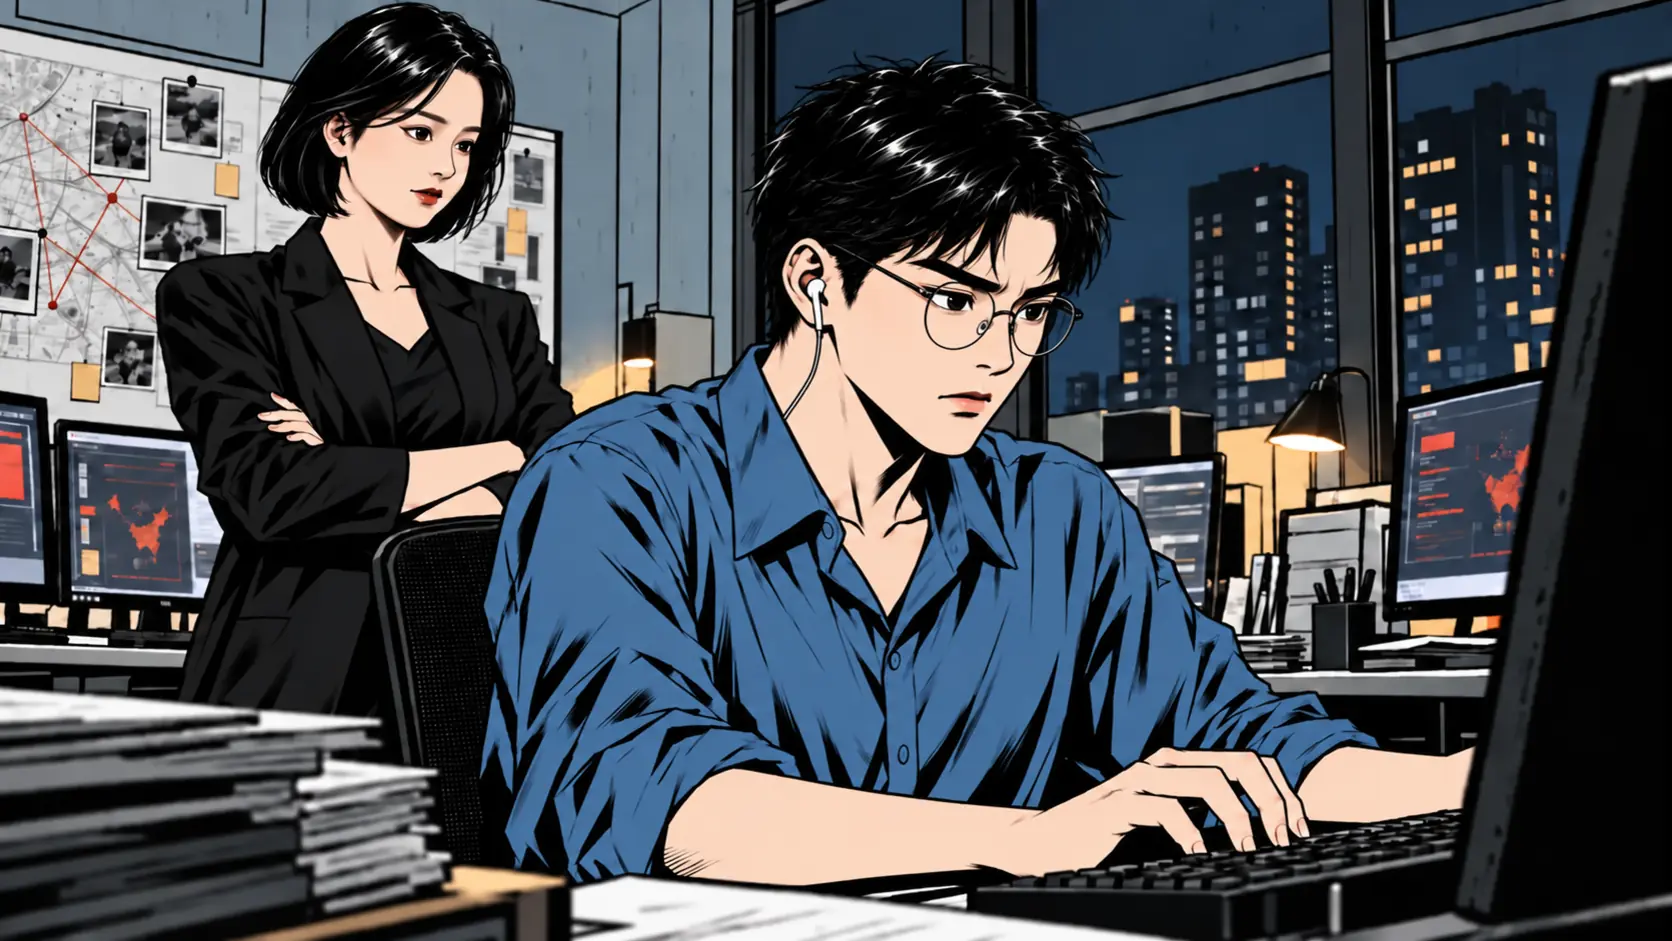
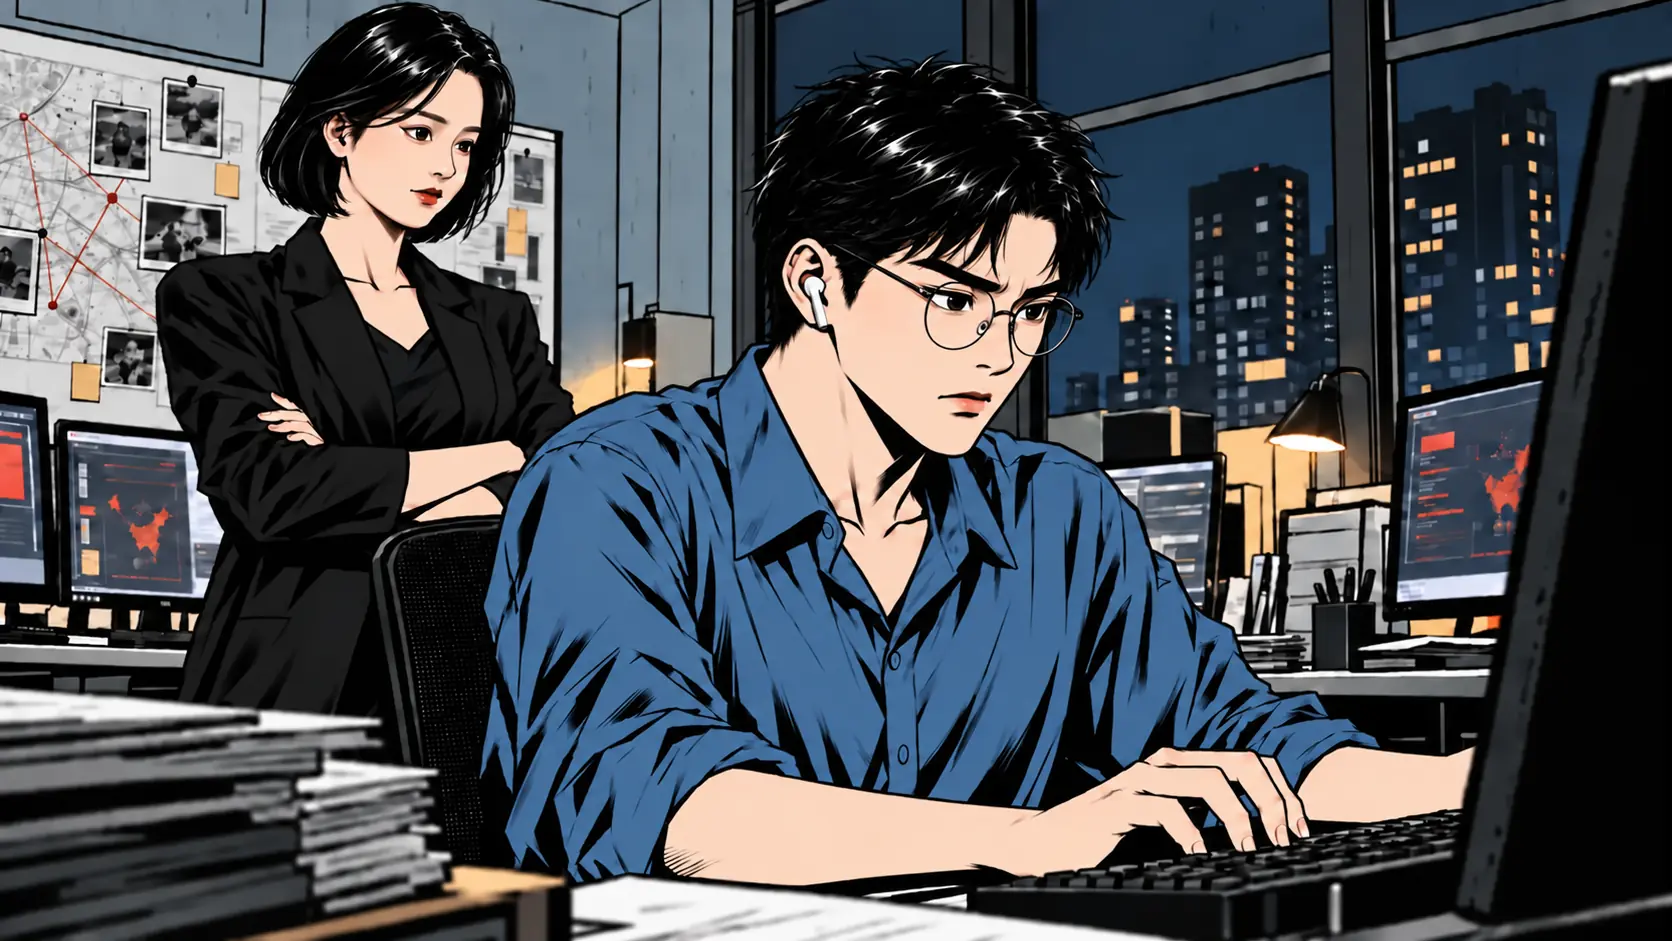
15화 삽화의 경민 이어폰을 무선으로 변경

Changed region(s): [[0.5287, 0.2465, 0.622, 0.3698], [0.4665, 0.2774, 0.4976, 0.4315], [0.5287, 0.1541, 0.5598, 0.1849]]

diff --git a/assets/illustrations/review.md b/assets/illustrations/review.md
@@ -125,5 +125,6 @@
 | `ep6.webp` | 오른쪽 끝의 유리를 4화 기준으로 변경. 나머지 인물은 그대로. |
 | `ep1.webp` | 도경이 테이블에 올린 오른손이 손가락 여섯 개처럼 보이던 것을 다섯 손가락의 자연스러운 손으로 교정. 얼굴과 나머지는 유지. |
 | `ep7.webp` | 왼쪽 은서의 두 팔이 하나로 이어져 보이던 것을 분리된 두 팔과 두 손으로 교정. 경민·임경호와 배경은 유지. |
+| `ep15.webp` | 경민의 유선 이어폰 줄이 옷 속으로 들어가던 것을 지우고 귀에 작은 무선 이어폰만 남김. 얼굴·자세·민아·배경은 유지. |
 
 모두 1672×941 WebP로 저장했다. `character_references`의 한유리 항목을 새 외모로 갱신했다.
